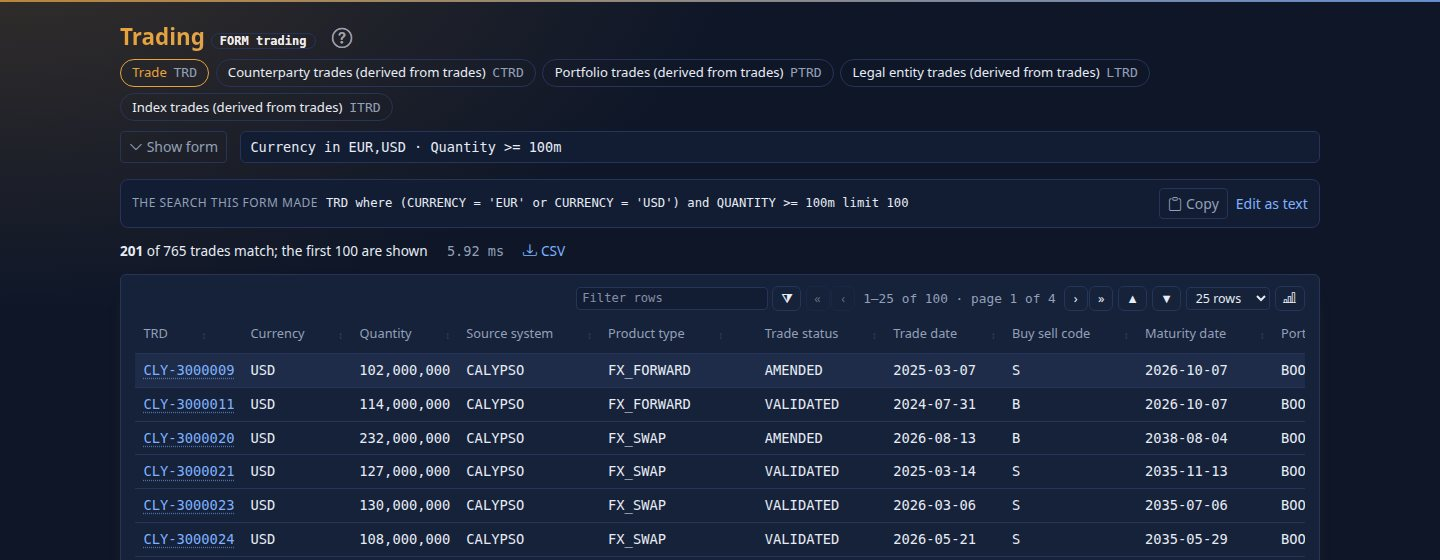
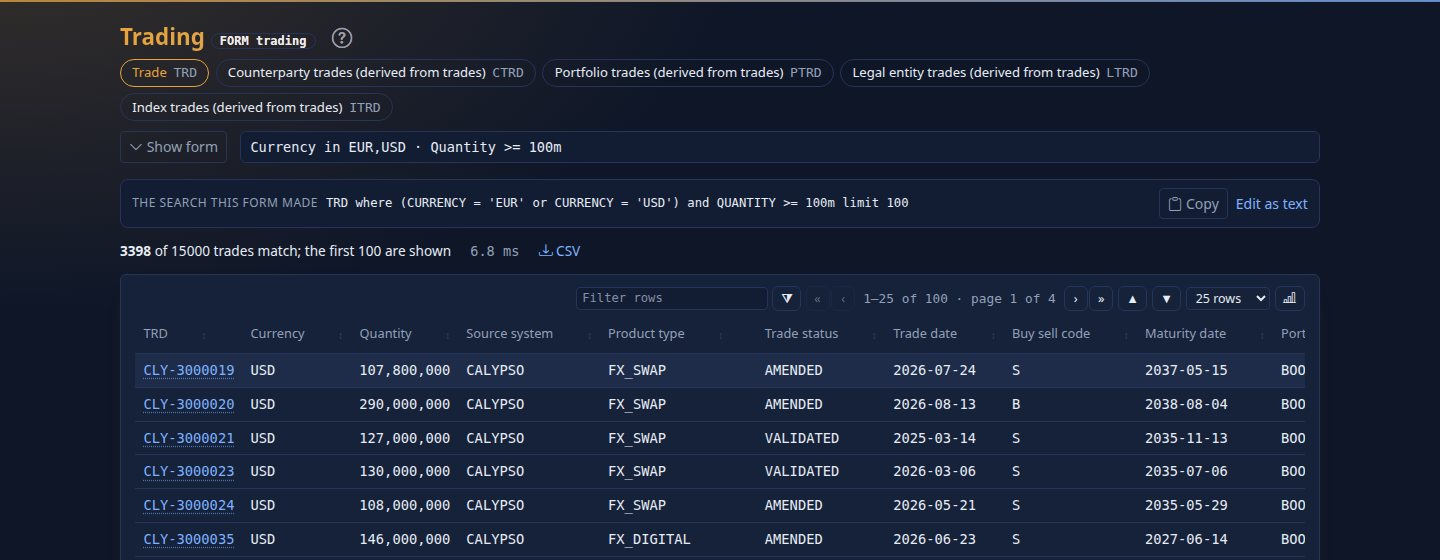
Query by form: the results pictures retaken on the demo lakes (3,398 of 15,000 trades, as the guide's server), the guide's count with them

diff --git a/docs/guides/QUERY_BY_FORM.md b/docs/guides/QUERY_BY_FORM.md
@@ -71,8 +71,7 @@ ticked and **Quantity** `>= 100m`, on the quick-start server (the demo lakes):
 TRD where (CURRENCY = 'EUR' or CURRENCY = 'USD') and QUANTITY >= 100m limit 100
 ```
 
-It matches 3,415 of the 15,000 trades of the three source systems; the table shows the first 100 (**Show** below the fields). (The
-picture was made on the smaller demo data set, without the lakes: 201 of 765 trades.)
+It matches 3,398 of the 15,000 trades of the three source systems; the table shows the first 100 (**Show** below the fields).
 
 On a business date the sources hold no data for (a date not loaded yet, or before the first), the page does not just say "Nothing
 matches": it says no trade data is loaded for that date, names the newest date that has data, and **Search on** that date runs the
